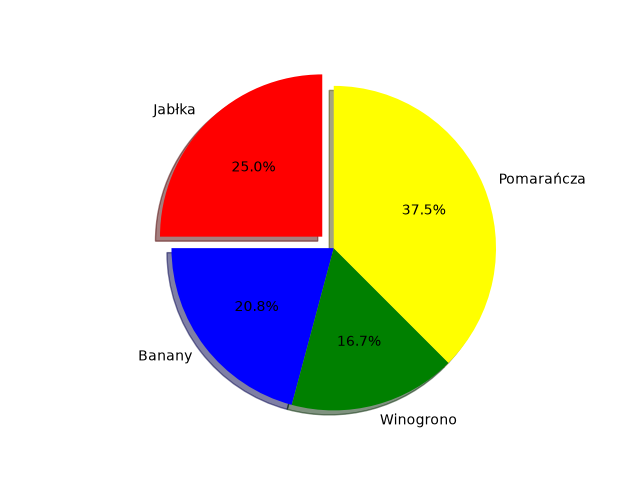
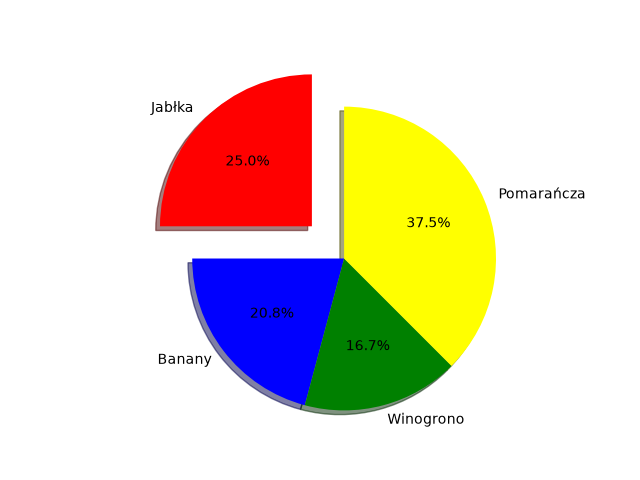
[3 49] add baza

diff --git a/dzien3/wykres2.py b/dzien3/wykres2.py
@@ -8,7 +8,7 @@ plt.pie(
     sizes, labels=labels, colors=colors, autopct='%1.1f%%',
     shadow=True,
     startangle=90,
-    explode=(0.1, 0, 0, 0)
+    explode=(0.3, 0, 0, 0)
 )
 
 plt.axis('equal')